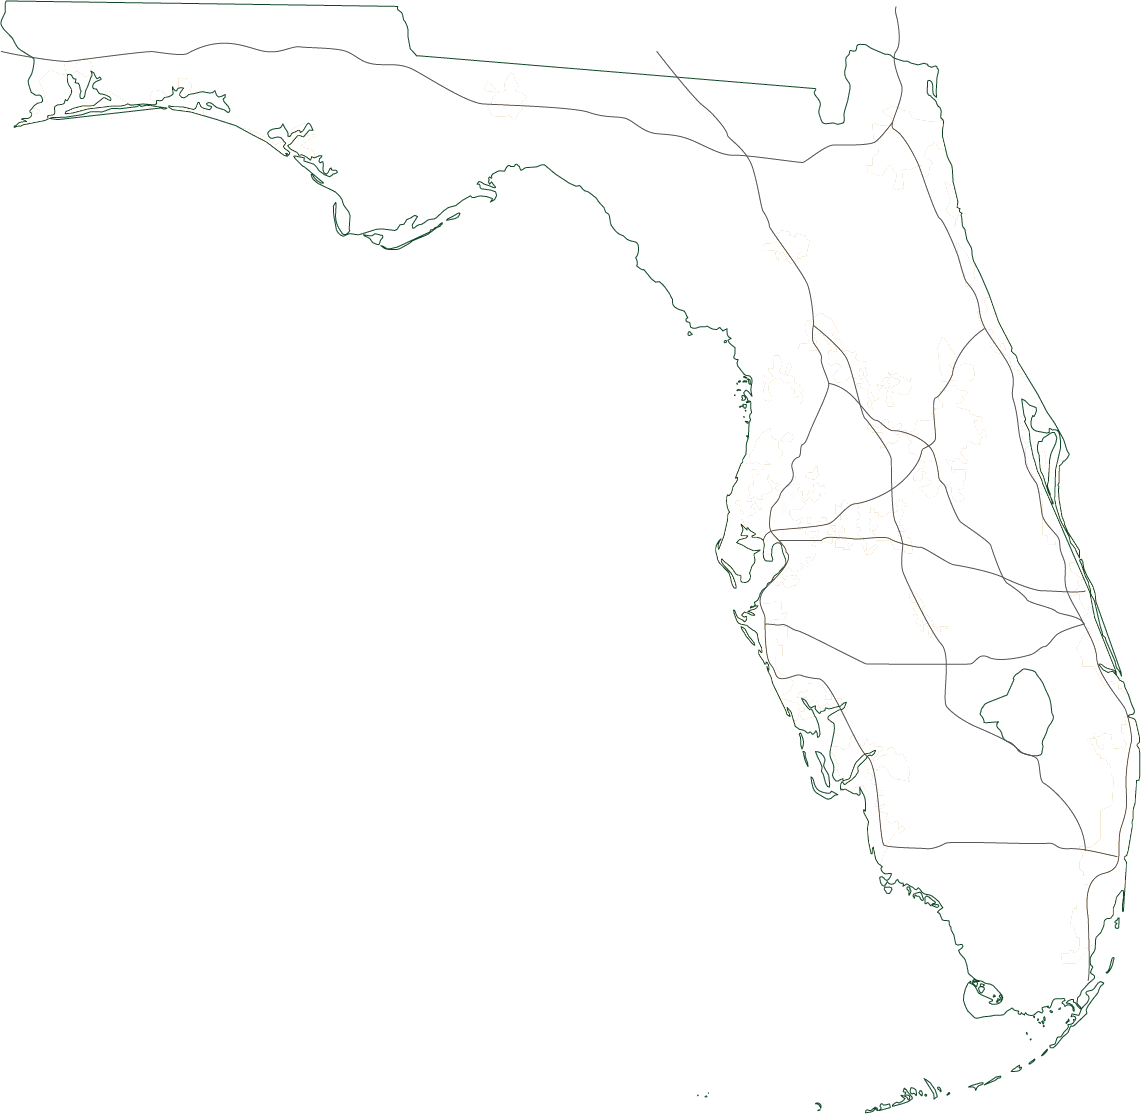
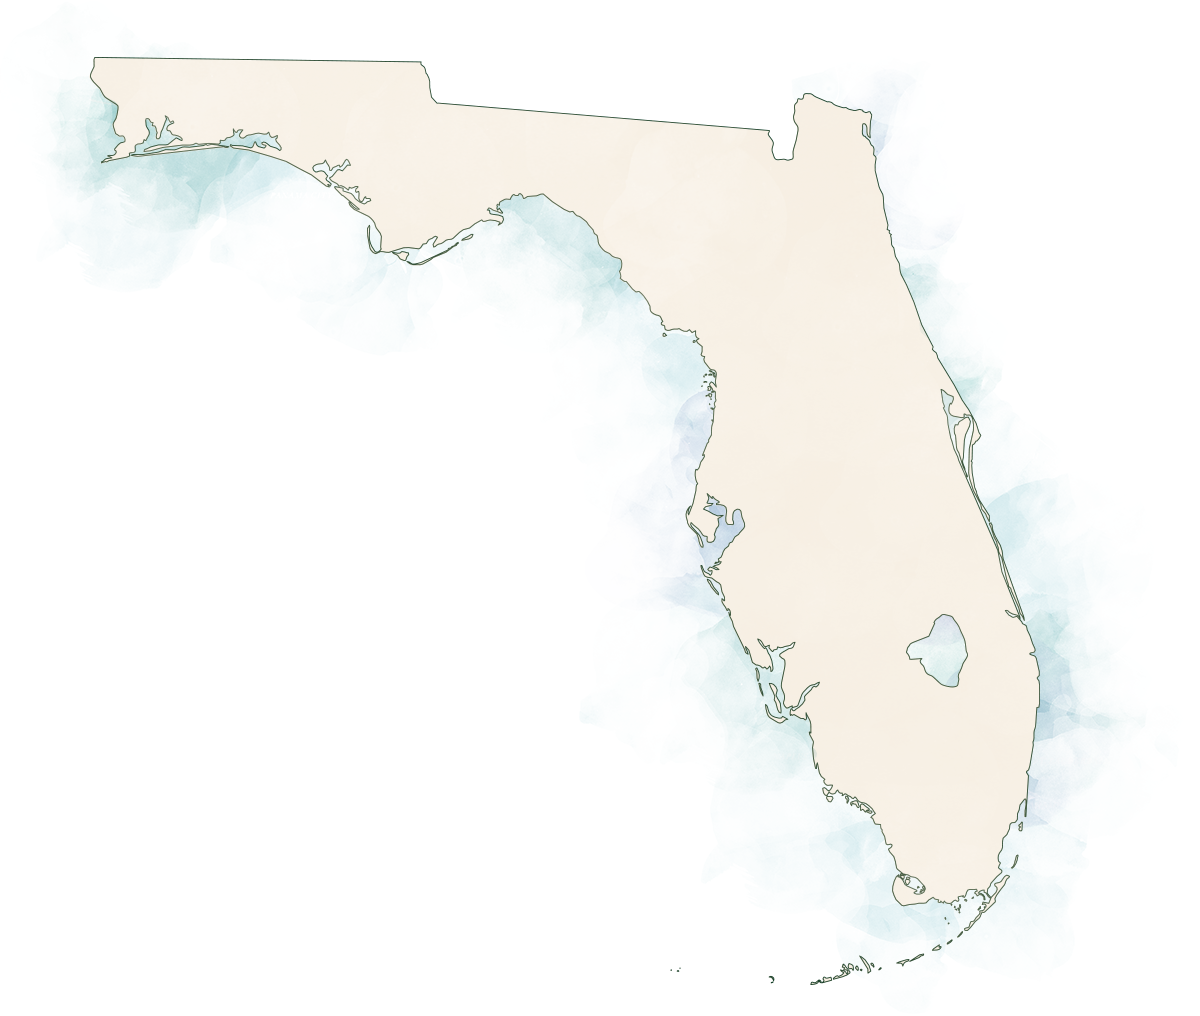
Added new map images

diff --git a/dev/2016/spring/state-of-nature/state-of-nature.html b/dev/2016/spring/state-of-nature/state-of-nature.html
@@ -140,7 +140,12 @@ Overall, despite some setbacks and challenges, scientists say balance is achieva
         <h4>What's at stake. How we save it.</h4>
       </div>
     </div>
-    <div class="row">
+    <div class="row visible-xs">
+        <div class="col-xs-12 col-md-12">
+            <img src="/wp-content/themes/Pegasus-Theme/dev/2016/spring/state-of-nature/img/map.png" alt="" width="100%" class="map-image">
+        </div>
+    </div>
+    <div class="row hidden-xs">
       <div class="col-sm-3 col-md-3 state-stats inview" data-callback="startNumberAnime">
         <div class="number">34.6</div> <div class="stat">Million Acres <a href="#footnote1">&dagger;</a></div>
         <div class="number">20</div> <div class="stat">Million People <a href="#footnote1">&dagger;</a></div>
@@ -151,7 +156,7 @@ Overall, despite some setbacks and challenges, scientists say balance is achieva
       </div>
       <div class="col-sm-9 col-md-9">
         <div class="map-container inview" data-callback="startMapAnime">
-          <img src="/wp-content/themes/Pegasus-Theme/dev/2016/spring/state-of-nature/img/urban.png" alt="" width="100%" class="map-image"><img src="/wp-content/themes/Pegasus-Theme/dev/2016/spring/state-of-nature/img/current.png" alt="" width="100%" class="map-image"><img src="/wp-content/themes/Pegasus-Theme/dev/2016/spring/state-of-nature/img/proposed.png" alt="" width="100%" class="map-image"><img src="/wp-content/themes/Pegasus-Theme/dev/2016/spring/state-of-nature/img/map.png" alt="" width="100%">
+          <img src="/wp-content/themes/Pegasus-Theme/dev/2016/spring/state-of-nature/img/map-urban.png" alt="" width="100%" class="map-image"><img src="/wp-content/themes/Pegasus-Theme/dev/2016/spring/state-of-nature/img/map-current.png" alt="" width="100%" class="map-image"><img src="/wp-content/themes/Pegasus-Theme/dev/2016/spring/state-of-nature/img/map-proposed.png" alt="" width="100%" class="map-image"><img src="/wp-content/themes/Pegasus-Theme/dev/2016/spring/state-of-nature/img/map-roads-cities.png" alt="" width="100%" class="map-image"><img src="/wp-content/themes/Pegasus-Theme/dev/2016/spring/state-of-nature/img/map.png" alt="" width="100%">
         </div>
         <div class="legend-container">
           <h3>Legend</h3>
@@ -162,8 +167,30 @@ Overall, despite some setbacks and challenges, scientists say balance is achieva
             <li><span class="dash">&mdash;</span> Major Roadways</li>
           </ul>
         </div>
-        <div class="chart-container">
-          [chart id="state-of-nature-chart" type="pie" data="/wp-content/themes/Pegasus-Theme/dev/2016/spring/state-of-nature/chart-data.json" options="/wp-content/themes/Pegasus-Theme/dev/2016/spring/state-of-nature/chart-options.json"]
+        <div class="row chart-container">
+            <div class="col-md-5 col-sm-5">
+                [chart id="state-of-nature-chart" type="pie" data="/wp-content/themes/Pegasus-Theme/dev/2016/spring/state-of-nature/chart-data.json" options="/wp-content/themes/Pegasus-Theme/dev/2016/spring/state-of-nature/chart-options.json"]
+            </div>
+            <div class="col-md-7 col-sm-7 chart-legend">
+                <ul>
+                    <li>
+                        <span class="number existing">27%</span> <span class="acres">(9.5 Million Acres)</span>
+                        <span class="areas">Existing Conservation Areas</span>
+                    </li>
+                    <li>
+                        <span class="number proposed">18%</span> <span class="acres">(6.3 Million Acres)</span>
+                        <span class="areas">Proposed Conservation Areas</span>
+                    </li>
+                    <li>
+                        <span class="number urban">12%</span> <span class="acres">(4.2 Million Acres)</span>
+                        <span class="areas">Urban and Developed Areas</span>
+                    </li>
+                    <li>
+                        <span class="number other">43%</span> <span class="acres">(14.6 Million Acres)</span>
+                        <span class="areas">Other Land Use</span>
+                    </li>
+                </ul>
+            </div>
         </div>
       </div>
     </div>
@@ -173,8 +200,8 @@ Overall, despite some setbacks and challenges, scientists say balance is achieva
       </div>
     </div>
     <div class="row species-stats">
-      <div class="col-xs-1 col-md-1 number">51</div>
-      <div class="col-xs-11 col-md-11 stat">Species of animals listed as federally endangered <a href="#footnote2">*</a></div>
+      <div class="col-xs-2 col-sm-2 col-md-1 number">51</div>
+      <div class="col-xs-10 col-sm-10 col-md-11 stat">Species of animals listed as federally endangered <a href="#footnote2">*</a></div>
     </div>
     <div class="row species-list animals">
       <div class="col-sm-3 col-md-3">
@@ -255,7 +282,7 @@ Overall, despite some setbacks and challenges, scientists say balance is achieva
             <li>Southern kidneyshell</li>
         </ul>
         <h4>Reptiles</h4>
-        <uL>
+        <ul>
             <li>Green sea turtle</li>
             <li>Hawksbill sea turtle</li>
             <li>Kemp's ridley sea turtle</li>
@@ -283,8 +310,8 @@ Overall, despite some setbacks and challenges, scientists say balance is achieva
       </div>
     </div>
     <div class="row species-stats">
-      <div class="col-xs-1 col-md-1 number">50</div>
-      <div class="col-xs-11 col-md-11 stat">Species of plants listed as federally endangered <a href="#footnote3">**</a></div>
+      <div class="col-xs-2 col-sm-2 col-md-1 number">50</div>
+      <div class="col-xs-10 col-sm-10 col-md-11 stat">Species of plants listed as federally endangered <a href="#footnote3">**</a></div>
     </div>
     <div class="row species-list plants">
       <div class="col-sm-3 col-md-3">
@@ -360,8 +387,8 @@ Overall, despite some setbacks and challenges, scientists say balance is achieva
       </div>
     </div>
     <div class="row species-stats habitat">
-      <div class="col-xs-1 col-md-1 number">18</div>
-      <div class="col-xs-11 col-md-11 stat">Most Threatened Habitats <a href="#footnote4">*</a></div>
+      <div class="col-xs-2 col-sm-2 col-md-1 number">18</div>
+      <div class="col-xs-10 col-sm-10 col-md-11 stat">Most Threatened Habitats <a href="#footnote4">*</a></div>
     </div>
     <div class="row">
       <div class="col-md-3 col-sm-3 species-list plants">

diff --git a/dev/2016/spring/state-of-nature/state-of-nature.css b/dev/2016/spring/state-of-nature/state-of-nature.css
@@ -23,6 +23,11 @@ article.story .state-florida h3 {
     font-size: 60px;
     margin-bottom: 5px;
 }
+@media (max-width: 992px) {
+    article.story .state-florida h3 {
+        font-size: 55px;
+    }
+}
 article.story .state-florida h4 {
     color: #53813E;
     font-style: italic;
@@ -31,7 +36,6 @@ article.story .state-florida h4 {
 }
 article.story .callout {
     background-color: #f9f1e3;
-    /* color: #d8a85e; */
 }
 article.story .map-container {
     position: relative;
@@ -48,15 +52,15 @@ article.story .map-container img:last-child {
 }
 article.story .legend-container {
     background-color: #F3E3CA;
-    left: 10%;
-    padding: 20px;
+    left: 9%;
+    padding: 10px;
     position: absolute;
-    top: 26%;
+    top: 30%;
 }
 @media (max-width: 992px) {
     article.story .legend-container {
         left: 4%;
-        top: 26%;
+        top: 35%;
     }
 }
 article.story .legend-container h3 {
@@ -64,15 +68,15 @@ article.story .legend-container h3 {
     display: inline-block;
     font-size: 16px;
     font-weight: 800;
-    margin: 0 0 10px;
-    padding-bottom: 5px;
+    margin: 0px 0 5px 5px;
+    padding-bottom: 3px;
     text-transform: uppercase;
 }
 article.story .legend {
     list-style: none;
 }
 article.story ul.legend {
-    margin: 0 0 10px;
+    margin: 0;
 }
 article.story .legend li {
     background-color: #F9F1E3;
@@ -80,7 +84,7 @@ article.story .legend li {
     font-family: "Helvetica Neue",Helvetica,Arial,sans-serif;
     font-size: 14px;
     margin: 0 !important;
-    padding: 10px;
+    padding: 5px;
     transition: all 0.8s ease;
 }
 article.story .legend li.highlight {
@@ -109,15 +113,57 @@ article.story .legend li:hover {
     background-color: #DFBE8A;
 }
 article.story .chart-container {
-    left: 0;
+    left: -23px;
     position: absolute;
-    top: 66%;
+    top: 63%;
 }
 @media (max-width: 992px) {
     article.story .chart-container {
-        left: 1%;
-        top: 76%;
+        left: -11%;
+        top: 77%;
     }
+}
+article.story .chart-container #state-of-nature-chart {
+    margin-top: 34px;
+}
+@media (max-width: 992px) {
+    article.story .chart-legend {
+        margin-left: 0px;
+    }
+}
+article.story .chart-legend ul {
+    list-style: none;
+    margin-left: 3px;
+}
+article.story .chart-legend li {
+    margin-bottom: 10px;
+}
+article.story .chart-legend .number {
+    line-height: normal;
+    font-size: 16px;
+}
+article.story .chart-legend .existing {
+    color: #acb859;
+}
+article.story .chart-legend .proposed {
+    color: #799636;
+}
+article.story .chart-legend .urban {
+    color: #d8a85e;
+}
+article.story .chart-legend .other {
+    color: #F3E3CA;
+}
+article.story .chart-legend .acres {
+    color: #d8a85e;
+    font-size: 12px;
+    text-transform: uppercase;
+}
+article.story .chart-legend .areas {
+    border-bottom: solid 2px #d8a85e;
+    font-size: 12px;
+    margin-bottom: 8px;
+    text-transform: uppercase;
 }
 article.story .animal-images {
     margin-top: 50px;
@@ -132,17 +178,23 @@ article.story .state-stats .number {
     visibility: hidden;
     font-size: 36px;
 }
+@media (max-width: 992px) {
+    article.story .state-stats .number {
+        font-size: 30px;
+    }
+}
 article.story .state-stats .stat {
     border-bottom: solid 2px #d8a85e;
     display: inline-block;
     font-size: 14px;
-    margin-bottom: 15px;
+    margin-bottom: 25px;
     text-transform: uppercase;
 }
 @media (max-width: 992px) {
-    article.story .species-stats .stat,
     article.story .state-stats .stat {
-        padding-left: 30px;
+        font-size: 12px;
+        padding-left: 2px;
+        margin-bottom: 32px;
     }
 }
 article.story .species-stats {
@@ -151,21 +203,47 @@ article.story .species-stats {
     margin-top: 50px;
     padding-bottom: 5px;
 }
-article.story .species-stats .number {
-    color: #799636;
-    font-size: 40px;
-    padding-left: 30px;
-    line-height: 43px;
-}
-article.story .species-stats.habitat .number {
-    line-height: 48px;
-}
 article.story .species-stats .stat {
     font-size: 20px;
     line-height: 42px;
     font-style: italic;
     margin-top: 6px;
     text-transform: uppercase;
+}
+@media (max-width: 992px) {
+    article.story .species-stats .stat {
+        font-size: 16px;
+        padding-left: 0;
+    }
+}
+@media (max-width: 768px) {
+    article.story .species-stats .stat {
+        font-size: 14px;
+        padding-left: 0;
+    }
+}
+@media (max-width: 650px) {
+    article.story .species-stats .stat {
+        width: auto;
+        line-height: normal;
+    }
+}
+article.story .species-stats .number {
+    color: #799636;
+    font-size: 40px;
+    padding-left: 30px;
+    line-height: 43px;
+}
+@media (max-width: 992px) {
+    article.story .species-stats .number {
+        width: 11%;
+    }
+}
+@media (max-width: 768px) {
+    article.story .species-stats .number {
+        display: inline-block;
+        width: auto;
+    }
 }
 article.story .species-list,
 article.story .species-list p,

diff --git a/dev/2016/spring/state-of-nature/state-of-nature.js b/dev/2016/spring/state-of-nature/state-of-nature.js
@@ -16,7 +16,7 @@
         var $this = $(this);
         setTimeout(function () {
             $this.trigger('click');
-        }, 2000 * index);
+        }, 1000 * index);
     }
 
     function startMapAnime() {
